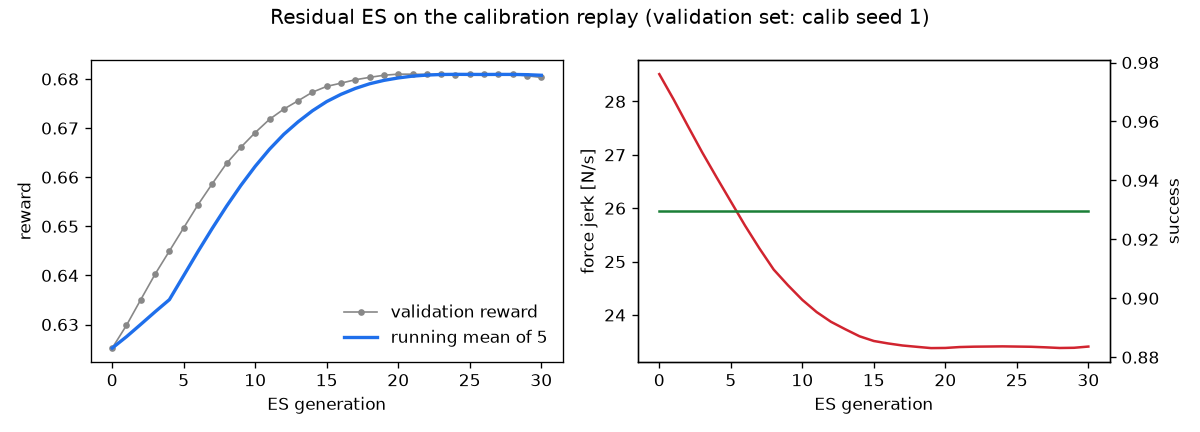
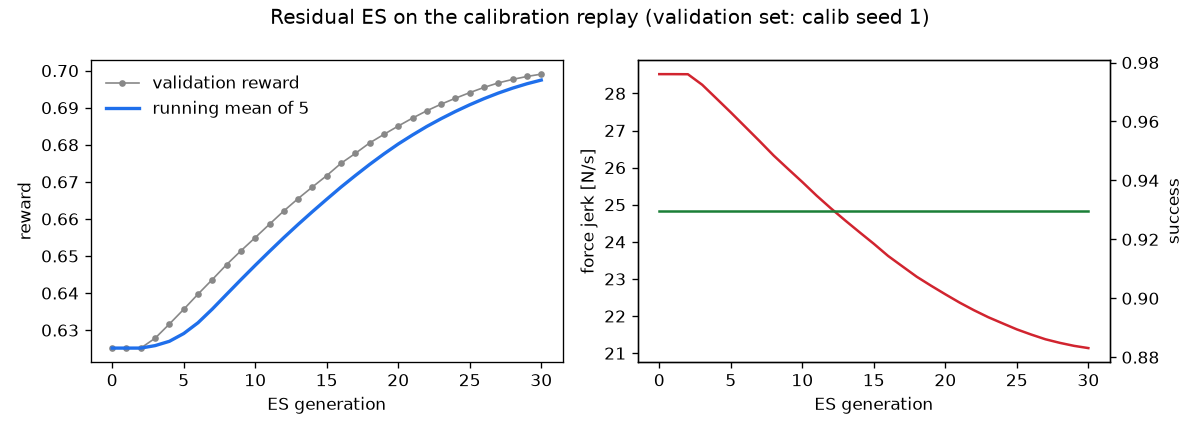
docs: T21 as a negative result: retrained, confirmed on the evaluation seeds
Retrained once after the SQUEEZE fix (same settings): validation reward
0.6252 -> 0.6991, jerk 28.5 -> 21.1 N/s, success unchanged; the smoothed
curve dips once (generation 1, by 0.000003), so the strict monotone rule is
not met. Quick's third scoring met the jerk rule (-25 %), so a one-time
confirmation on the evaluation seeds was pre-registered: it missed (-5.4 %;
the median falls 24 % at no success cost). The diagnosis now names the
success-only mean, the step limit's inability to rescue faster, and the
replay's missing rescues. Per the owner's decision T21 ships as a
negative result; the T21-b follow-up is dropped.

diff --git a/src/vfa/experiments/train_residual.py b/src/vfa/experiments/train_residual.py
@@ -11,8 +11,10 @@ runs ``memory_full`` on the benchmark's ``calib`` profile (seeds 0 and 1,
 chunked and resumable like any benchmark run). Every attempt of that run becomes
 a replay episode: its situation, attempt (the env reset seed), and the θ that
 ran at the end. The residual acts after the probe, so replaying that θ from the
-start gives memory's grasp without System 2 in the loop and without any class
-label. Seed 0's attempts are the training pool, seed 1's the validation set.
+start gives memory's grips without System 2 in the loop and without any class
+label. That θ already holds the reflex and escalation raises, so the replays
+slip less than the original attempts (docs/RESULTS.md §11.6). Seed 0's attempts
+are the training pool, seed 1's the validation set.
 
 **Reward** of one episode: ``success − LAMBDA·jerk/J0 − MU·max(excess, 0)/E0``
 (force jerk and peak-force excess as ``benchmark.attempt_record`` computes them;
@@ -272,7 +274,8 @@ def train(out: Path, generations: int, batch: int, workers: int, deadline: float
             c = curve[-1]
             print(
                 f"generation {gen}: validation reward {c['reward']:.4f} success {c['success']:.3f} "
-                f"jerk {c['jerk']} excess {c['excess']} ({time.perf_counter() - t0:.0f} s)",
+                f"jerk {_fmt(c['jerk'], 1)} excess {_fmt(c['excess'], 2)} "
+                f"({time.perf_counter() - t0:.0f} s)",
                 flush=True,
             )
     if gen < generations:
@@ -288,6 +291,10 @@ def train(out: Path, generations: int, batch: int, workers: int, deadline: float
         f"{'non-decreasing' if monotone else 'NOT non-decreasing'}; wrote {out / 'residual.npz'}"
     )
     return True
+
+
+def _fmt(value: float | None, digits: int) -> str:
+    return "n/a" if value is None else f"{value:.{digits}f}"
 
 
 def _save(out: Path, center: np.ndarray, adam: Adam, gen: int, curve: list[dict], key: str) -> None:

diff --git a/docs/RESULTS.md b/docs/RESULTS.md
@@ -352,7 +352,7 @@ On the fresh seed too, `memory_full` needs fewer attempts than `random_retry` (1
 ### 11.1 Protocol (fixed before the quick run)
 
 - **Training** (`uv run python -m vfa.experiments.train_residual --workers 8`, re-run until done; `--install` copies the weights to `configs/residual.npz`): numpy OpenAI-style ES on the calibration seeds only. The replay set is `memory_full`'s attempts on the `calib` profile (seed 0: 72 training episodes; seed 1: 71 validation episodes), each replayed with the θ that ran. 8 antithetic pairs per generation, σ 0.5, Adam step 0.1, 16 training episodes per generation (the same for every candidate), 30 generations. Reward per episode: success − 0.25 · jerk / 30 N/s − 0.05 · max(excess, 0) / 10 N. All of these, and the training curve's smoothing (a running mean over 5 generations of the validation reward of the center), were fixed before the first training run.
-- **Comparison** (quick profile, seeds 500 and 501, scored once with the installed weights): `memory_full+residual` meets the target if its force jerk (mean over seeds) is at least 20 % lower than `memory_full`'s and its success@1 is at most 0.03 lower.
+- **Comparison** (quick profile, seeds 500 and 501; fixed before the first quick scoring, and quick was then scored three times, §11.4): `memory_full+residual` meets the target if its force jerk (mean over seeds) is at least 20 % lower than `memory_full`'s and its success@1 is at most 0.03 lower.
 - **Confirmation** (added after the third quick scoring, §11.4, and pushed before this run): the same rule on the `full` profile (the evaluation seeds 1000–1002, which no residual run has seen), scored once with the installed weights.
 
 ### 11.2 Where the jerk comes from (probe)
@@ -368,25 +368,43 @@ On the fresh seed too, `memory_full` needs fewer attempts than `random_retry` (1
 | every rise limited to 10 N/s (SQUEEZE, LIFT, HOLD) | 0.909 | 22.6 | 273 | 244 |
 | every rise limited to 5 N/s | 0.692 | 20.2 | 166 | 244 |
 
-The jerk comes about equally from SQUEEZE (the squeeze ramp) and LIFT (where the grip rises through the slip reflex and escalations, besides the sensor noise). An offset per phase does little; limiting how fast the grip rises does most. So the residual's grip output is a per-tick step limit on the grip command (ARCHITECTURE §6), which the spec's inputs (F/T, slip signal, phase) can steer.
+The jerk comes about equally from SQUEEZE (the squeeze ramp) and LIFT (where the grip rises through the slip reflex and escalations, besides the sensor noise). A constant offset per phase does little; limiting how fast the grip rises does most. So the residual's grip output is a per-tick step limit on the grip command (ARCHITECTURE §6), which the spec's inputs (F/T, slip signal, phase) can steer.
 
 ### 11.3 Training
 
 ![Residual ES training curve](figures/t21_residual_curve.png)
 
-Over 30 generations the center's validation reward rose from 0.6252 to 0.6803 (calib seed 1, 71 episodes), its force jerk fell from 28.5 to 23.4 N/s, and its success stayed at 0.930. The smoothed curve (running mean of 5) rose at every generation through generation 24 and then stayed flat: generations 25–30 lie at most 0.00012 per generation below the one before. By the rule fixed before training (non-decreasing at every generation) the plateau's last six steps fail by those amounts. The learned grip step is slow in SQUEEZE (bias −1.53: about 9 N/s per finger), faster in LIFT and HOLD, and slower when the slip signal rises (weight −0.62).
+Over 30 generations the center's validation reward rose from 0.6252 to 0.6991 (calib seed 1, 71 episodes), its force jerk fell from 28.5 to 21.1 N/s, and its success stayed at 0.930. The smoothed curve (running mean of 5) rose at every generation from generation 2 on and was still rising at generation 30; generation 1 lies 0.000003 below generation 0. **By the rule fixed before training (non-decreasing at every generation) the acceptance item "improves monotonically (smoothed)" is not met**, by that one step. The learned grip step is slow in SQUEEZE (bias −2.87: about 7 N/s per finger), close to the default ramp in LIFT and HOLD, and slower when the slip signal rises (weight −1.51).
 
-### 11.4 Quick comparison: target missed
+### 11.4 Quick comparison (three scorings, two after bug fixes)
 
-| condition (quick, seeds 500 and 501) | success@1 | success@1, 21–60 | attempts-to-success | break rate | force jerk [N/s] | median jerk [N/s] | attempts > 100 N/s |
-|---|---|---|---|---|---|---|---|
-| `memory_full` | 0.883 ± 0.024 | 0.938 ± 0.018 | 1.133 ± 0.047 | 0.066 ± 0.008 | 36.4 ± 5.6 | 28.5 | 5 |
-| `memory_full+residual` | 0.883 ± 0.024 | 0.938 ± 0.018 | 1.117 ± 0.024 | 0.074 ± 0.020 | 36.9 ± 8.4 | 22.3 | 8 |
+| condition (quick, seeds 500 and 501) | success@1 | success@1, 21–60 | attempts-to-success | force jerk [N/s] | median jerk [N/s] |
+|---|---|---|---|---|---|
+| `memory_full` | 0.883 ± 0.024 | 0.938 ± 0.018 | 1.133 ± 0.047 | 36.4 ± 5.6 | 28.5 |
+| `memory_full+residual`, run 3 (installed) | 0.867 ± 0.024 | 0.925 ± 0.035 | 1.150 ± 0.047 | 27.2 ± 6.2 | 21.4 |
 
-**Target missed:** the mean force jerk is 1.4 % higher, not 20 % lower; success@1 is unchanged. The residual lowers the typical attempt's jerk: the median over successful attempts falls 22 % (28.5 to 22.3 N/s), every class's median falls (`brittle` 27.9 to 21.8, `heavy_rigid` 28.3 to 22.0, `light_rigid` 28.3 to 22.2, `slippery` 33.7 to 27.3, `heavy_slippery` 36.6 to 29.9; `fragile_soft` stays at the noise floor, 19.6 and 19.1), and the mean over the attempts at or below 100 N/s falls 16 % (29.0 to 24.3). The mean is set by a few attempts at 100–338 N/s, and the residual has more of them (8 against 5).
+The installed residual meets the rule on quick: 25.2 % lower mean jerk, success@1 0.017 lower. That was quick's third scoring. Two reviewer-found bugs were fixed after the earlier ones, each followed by a retrain with the same settings:
 
-**Disclosure: two runs.** The first training run read the wrist wrench in the wrong order (its "Fz" was Fx, its "‖Fxy‖" ‖(Fy, Fz)‖). Scored on quick, that residual gave 31.8 ± 1.1 against 36.4 ± 5.6 N/s (12.6 % lower) with success@1 0.867 against 0.883. The bug was found after that score; the features were corrected, the residual retrained with the same settings, and quick scored again (the table above). Both runs miss the target.
+1. Run 1 read the wrist wrench in the wrong order (its "Fz" was Fx). It scored 31.8 ± 1.1 N/s (12.6 % lower) at success@1 0.867.
+2. Run 2, with the wrench fixed, scored 36.9 ± 8.4 N/s (1.4 % higher) at success@1 0.883. Its SQUEEZE ended on the gripper's own ramp time, so under a slow residual 46 of 131 replayed lifts started short of θ's grip; the fix makes SQUEEZE wait for the grip.
 
-### 11.5 Diagnosis and the follow-up
+Because quick had been looked at three times, the rule was fixed again for one scoring on the evaluation seeds (§11.1).
 
-The attempts above 100 N/s are slip rescues: the cube slid at the grip memory chose at the probe, the slip reflex raised the grip in steps, an escalation raised it again, and the cube stick-slipped in the grip meanwhile (traced in the first run on a `brittle` retry: chosen grip 1.9 N, reflex raises to 2.37 and 2.96 N, escalation to 4.62 N, pad-force swings of about ±1000 N/s in LIFT). They are `heavy_slippery` first attempts and `brittle` retries. The training replay cannot show them: it replays each attempt with the θ that ran *at the end*, which already holds the rescued grip, so its cubes rarely slip, and ES learned to raise the grip more slowly when the slip signal rises (weight −0.62), which lengthens exactly these rescues. Follow-up T21-b (ROADMAP) trains on the θ memory chose at the probe, so the replay holds the slips and their rescues, and scores the result once on the evaluation seeds.
+### 11.5 Confirmation on the evaluation seeds: target missed
+
+| condition (full, seeds 1000–1002) | success@1 | success@1, 21–60 | attempts-to-success | force jerk [N/s] | median jerk [N/s] | successes > 100 N/s |
+|---|---|---|---|---|---|---|
+| `memory_full` | 0.856 ± 0.019 | 0.925 ± 0.000 | 1.189 ± 0.069 | 36.7 ± 1.7 | 28.0 | 11 |
+| `memory_full+residual` | 0.872 ± 0.019 | 0.925 ± 0.000 | 1.161 ± 0.051 | 34.8 ± 8.0 | 21.2 | 15 |
+
+**Target missed:** the mean force jerk is 5.4 % lower, not 20 % (per seed: 25.9 against 34.9, 37.1 against 37.2, 41.3 against 38.2 N/s); success@1 is 0.017 higher. The quick result did not replicate. What does replicate is the typical attempt: the median jerk over successful attempts falls 24 % (28.0 to 21.2 N/s) and every class's median falls (`brittle` 27.2 to 21.0, `heavy_rigid` 28.1 to 21.3, `light_rigid` 27.8 to 21.1, `slippery` 33.4 to 21.7, `heavy_slippery` 37.1 to 23.2; `fragile_soft` stays at the noise floor, 19.6 and 19.2), as on quick.
+
+### 11.6 Why the mean misses
+
+The mean over successful attempts is set by a few attempts at 100 N/s and more: slip rescues, where the cube slid at the grip memory chose at the probe, the slip reflex raised the grip in steps, an escalation raised it again, and the cube stick-slipped in the grip (traced in run 1 on a `brittle` retry: chosen grip 1.9 N, reflex raises to 2.37 and 2.96 N, escalation to 4.62 N, pad-force swings of about ±1000 N/s in LIFT). On the evaluation seeds both conditions have 23 attempts above 100 N/s; the residual has more of them among its successes (15 against 11) because 4 of its tails are rescues that `memory_full` lost (3 slips, 1 drop). Three properties of the design keep the residual from reaching the target:
+
+- **The metric counts a lost rescue as an improvement.** Jerk is averaged over successful attempts only, so a rescue that succeeds adds a tail and a rescue that fails removes one.
+- **The residual cannot rescue faster.** Its grip output only limits how fast the command rises toward System 1's; it never exceeds System 1's command or the gripper's own rate. It learned to slow rises when the slip signal rises (weight −1.51).
+- **The replay holds few rescues.** It replays each attempt with the θ that ran at the end, which already holds the reflex and escalation raises, and it runs no System 2: replayed, those grasps succeed at 0.916 against 0.839 in the original run, so the slips that make the tails are mostly absent from training.
+
+**Outcome (owner's decision, 2026-10-23):** T21 ships as a negative result. The residual is built, trained, and available as `memory_full+residual`; it lowers the typical attempt's force jerk by about a quarter at no success cost; the pre-registered mean-jerk target and the strict monotonic-curve rule are not met. No follow-up task is planned: a residual that only limits how fast the grip rises cannot lower a success-only mean that slip-rescue tails dominate.

diff --git a/docs/ARCHITECTURE.md b/docs/ARCHITECTURE.md
@@ -1,6 +1,6 @@
 # Architecture — ruvector-vfa
 
-Status: **as built through T21** (T20 brought this file in line with the code). Each section states the design, then "As built in Txx" paragraphs record what the code does and what changed; measured numbers live in `docs/RESULTS.md`. Not built yet: T21's follow-up (T21-b), the Rust backend (T22), and T23–T24. Section numbers are referenced from `ROADMAP.md`; keep them stable.
+Status: **as built through T21** (T20 brought this file in line with the code). Each section states the design, then "As built in Txx" paragraphs record what the code does and what changed; measured numbers live in `docs/RESULTS.md`. Not built yet: the Rust backend (T22) and T23–T24. Section numbers are referenced from `ROADMAP.md`; keep them stable.
 
 ---
 
@@ -285,7 +285,7 @@ At the start (and the retry start) System 2 keeps the default θ; the decision t
 
 **As built in T14** (`vfa/cognition/cognitive_core.py`). `CognitiveCore.run_attempt` resets the env to show System 2 the cube, decides θ, and calls T08's `run_attempt`, which resets again with the same seed (same cube; a reset costs about 11–12 ms). The failure trigger is the start of the retry. Escalations reach System 2 through the skill's callback between two `env.step` calls; fields that already ran keep their values, and an unchanged θ goes back as `None`. Percepts are observable only: probe and escalation percepts carry an `EpisodeView` of the attempt so far; a retry sees an `ObservedAttempt` (result with SLIP and DROP merged, θ, probe, an `EpisodeView`), never the recorded episode, which holds the hidden class. A safety stop sets `EMERGENCY` until the next attempt. Each step is a line in `handoffs.jsonl` (with `log_path`). The stub policy returns the naive θ at start and keeps the θ in force later.
 
-**As built in T21** (`vfa/skills/residual.py`, `vfa/experiments/train_residual.py`). A learned residual is part of System 1 and is off by default. It is a linear map from the phase one-hot, the tared wrist Fz and ‖Fxy‖, the held load, and the slip signal to two bounded outputs. The first is a per-tick step limit on how fast the grip command may rise toward System 1's command (a lower command applies at once). The second is a vertical velocity in LIFT and HOLD, integrated into a clamped offset. θ and its record stay System 1's. A step limit, not an offset: a probe showed the jerk comes from how fast the grip rises (RESULTS §11.2). Numpy ES trains it on memory's grasps from the calibration seeds. On quick it lowered the median jerk 22 % but missed the mean-jerk target, because slip rescues dominate the mean (§11.4–11.5; follow-up T21-b, D22).
+**As built in T21** (`vfa/skills/residual.py`, `vfa/experiments/train_residual.py`). A learned residual, off by default, is part of System 1. A linear map from the phase one-hot, the tared wrist Fz and ‖Fxy‖, the held load, and the slip signal sets two bounded outputs: a per-tick step limit on how fast the grip command may rise toward System 1's (θ stays System 1's), and a vertical velocity in LIFT and HOLD. A step limit, not an offset, because the jerk comes from how fast the grip rises (RESULTS §11.2). Numpy ES trains it on memory's grasps from the calibration seeds. On the evaluation seeds it lowered the median jerk 24 % at no success cost but missed the mean-jerk target (−5.4 %): slip-rescue tails set a success-only mean, and a step limit cannot rescue faster (§11.5–11.6; a negative result, D22).
 
 ---
 
@@ -443,4 +443,4 @@ runs/                     # git-ignored artifacts
 | D19 | Thompson-sampling bandit baselines (`bandit`, `bandit_flat`) ported from `ruvector-domain-expansion`, with numpy's exact Beta draws (T17a) | the bandit learns from success and failure like memory but has no similarity search over force, so memory beating it shows that the gain comes from RuVector-style retrieval, not from learning alone; the crate's approximate sampler is not a Beta draw (on a Python transcription of it, Beta(1, 1) gives variance 0.128 instead of 0.083) |
 | D20 | Pre-register T18's targets, held-out design, and ablation verdict rule before the first run on the evaluation seeds; judge a component by paired bootstrap intervals over situations | the evaluation seeds are scored once, so every rule that reads them must be fixed first; 3 seeds give too little spread to choose a wording after the fact |
 | D21 | Pick-and-place gets a table-impact break rule, its own benchmark file and hash, and its own place-phase key group; the lift benchmark, its rule, and its keys stay as they were (T19) | at the hand-picked grips the finger forces at the place stayed below every break force (at most 9.2 N on `brittle`, RESULTS §10.1), so without an impact rule `place_speed` and `release_height` would not matter; keeping the lift's rule, vectors, and keys unchanged leaves every lift result unchanged (1,143 quick attempts compared: no difference) |
-| D22 | The T21 residual shapes how fast the grip rises (a bounded step limit on the grip command), and it trains on replays of memory's own grasps on the calibration seeds | a constant offset per phase cut the jerk 7 % on memory's grasps, while limiting every rise to 10 N/s cut it 24 % (RESULTS §11.2); replaying memory's grasps gives the residual the grips it will meet without putting System 2 in the ES loop or using a class label |
+| D22 | The T21 residual shapes how fast the grip rises (a bounded step limit on the grip command), and it trains on replays of memory's own grasps on the calibration seeds | a constant offset per phase cut the jerk 7 % on memory's grasps, while limiting every rise to 10 N/s cut it 24 % (RESULTS §11.2); replaying memory's grasps (with the θ that ran at the end) gives the residual memory's grips without putting System 2 in the ES loop or using a class label; those replays hold few slip rescues (0.916 success against 0.839 in the original run), which is one reason the mean-jerk target was missed (RESULTS §11.6) |

diff --git a/ROADMAP.md b/ROADMAP.md
@@ -397,18 +397,7 @@ Phases: **A** simulation foundation · **B** System 1 (env, skill, safety, basel
   - Verify: `uv run python -m vfa.experiments.train_residual --quick --workers 8` (≤ 9 min; full training is chunked and resumable by ES generation), then the benchmark quick profile for both conditions.
   - Budget: ~60 min.
   - depends: T20
-
-- [ ] **T21-b — Residual trained on memory's chosen grips (target follow-up)**
-  - Goal: the T21 target, after its miss (docs/RESULTS.md §11.4–11.5).
-  - Hypothesis: T21's mean force jerk is set by a few slip rescues (100–338 N/s: `heavy_slippery` first attempts, `brittle` retries), while the median already fell 22 %. The training replay used each attempt's final θ, which holds the rescued grip, so it held almost no slips, and ES learned to raise the grip *more slowly* while slipping (slip weight −0.62). Training on the θ memory chose at the probe puts the slips and their rescues in the replay; ES should then learn a fast rescue on a rising slip signal, which removes the stick-slip tails that dominate the mean.
-  - Deliverables:
-    - Record the θ of the probe decision in each benchmark attempt record (`theta_chosen`), and build the trainer's replay from it.
-    - Retrain with T21's other settings unchanged (fixed before the run), install the weights, and record the curve.
-  - Acceptance:
-    - Target (unchanged): `memory_full+residual` force jerk (mean over seeds) ≥ 20 % lower than `memory_full` with success@1 not lower by more than 3 points.
-    - Scored once on the `full` profile (the evaluation seeds; quick was used to diagnose T21). If this also misses, fail the gate (CLAUDE.md).
-  - Verify: `uv run python -m vfa.experiments.train_residual --workers 8` (re-run until done, then `--install`), then the benchmark `full` profile for both conditions.
-  - depends: T21
+  - Outcome (2026-10-23, owner's decision): shipped as a negative result. The residual lowers the median force jerk 24 % at no success cost, but the mean-jerk target was missed on the evaluation seeds (−5.4 %) and the smoothed training curve dips once (generation 1, by 0.000003). No follow-up task: docs/RESULTS.md §11.5–11.6 explain why the target is out of reach for this design.
 
 - [ ] **T22 — Real RuVector backend: PyO3 binding over `ruvector-robotics`**
   - Goal: prove the drop-in hooks — run the same memory through the actual Rust crate.
